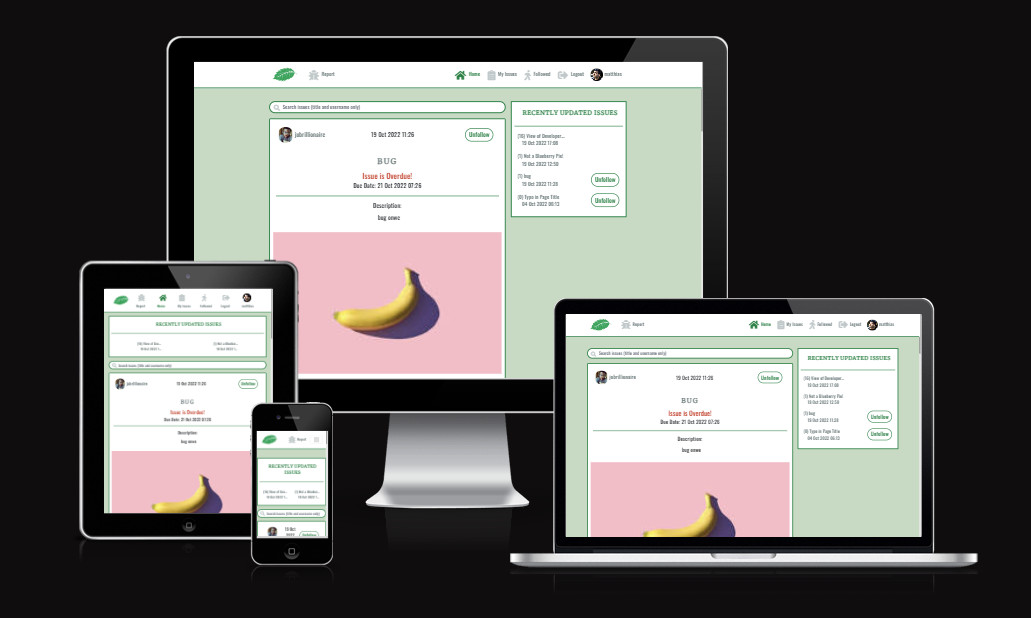
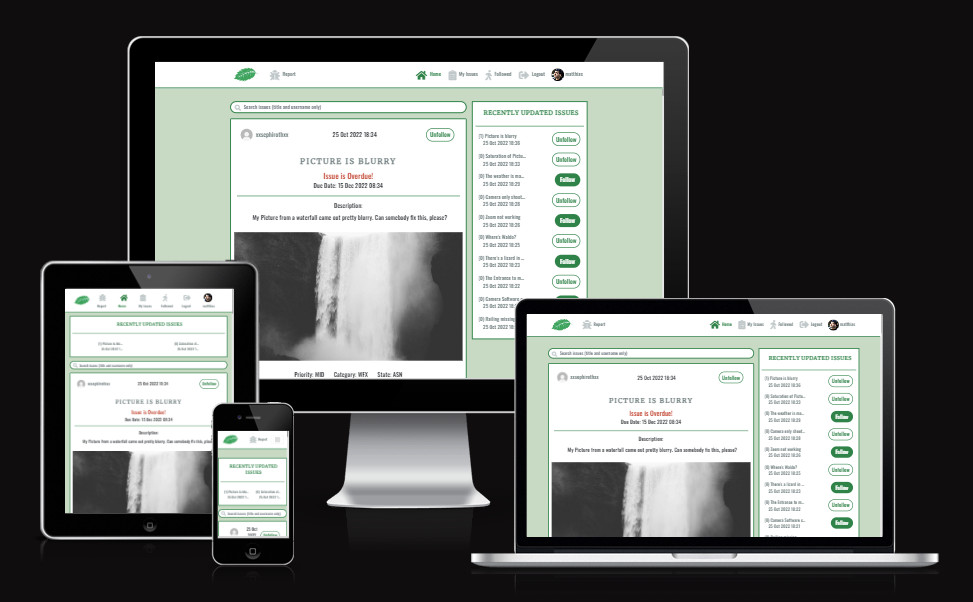
Docs: update readme and pictures

diff --git a/README.md b/README.md
@@ -206,7 +206,7 @@ Contrary to my other Projects, this website is meant as an Intranet application,
 
 ###   Recently Updated Issues
 
-- A Sidebar on the Website provides a quick overview of recently created and updated Issues. This way, Users can stay up to date with Issues that are regularly updated and new Issues appearing that may be relevant to what they are working on. Both the number of modifications (journals) and the time of the last update are shown here. They can also follow/unfollow these Issues with a quick click of a Button.
+- A Sidebar on the Website provides a quick overview of recently created and updated Issues. This way, Users can stay up to date with Issues that are regularly updated and new Issues appearing that may be relevant to what they are working on. Both the number of modifications (journals) and the time of the last update are shown here. They can also follow/unfollow these Issues with a quick click of a Button. A total of 10 Issues can be displayed in the Sidebar on Desktop Resolution Devices, while only 2 are displayed on mobile Screens without the follow/unfollow buttons. Nevertheless, mobile Users can click the Issues to open them and follow them with a click on the follow/unfollow button of the issue.
 
 <h2><img src="./docs/images/recently_updated_issues.jpg" alt="A Picture showing the Recently Updated Issues Sidenav"></h2><br>
 
@@ -437,6 +437,8 @@ Click [Here](https://help.github.com/en/github/creating-cloning-and-archiving-re
 - The [Cloud Upload Icon](http://simpleicon.com/cloud-upload-2.html) is a by me modified version of a picture found on [Simple Icon](http://simpleicon.com/).
 
 - The Sites Favicon next to the Websites Name in the Tab was created by me with the use of the above-mentioned Leaf Logo and Gimp.
+
+- Images used in the bug reports come from [Lorem Picsum](https://picsum.photos/).
 
 ### Code
 
